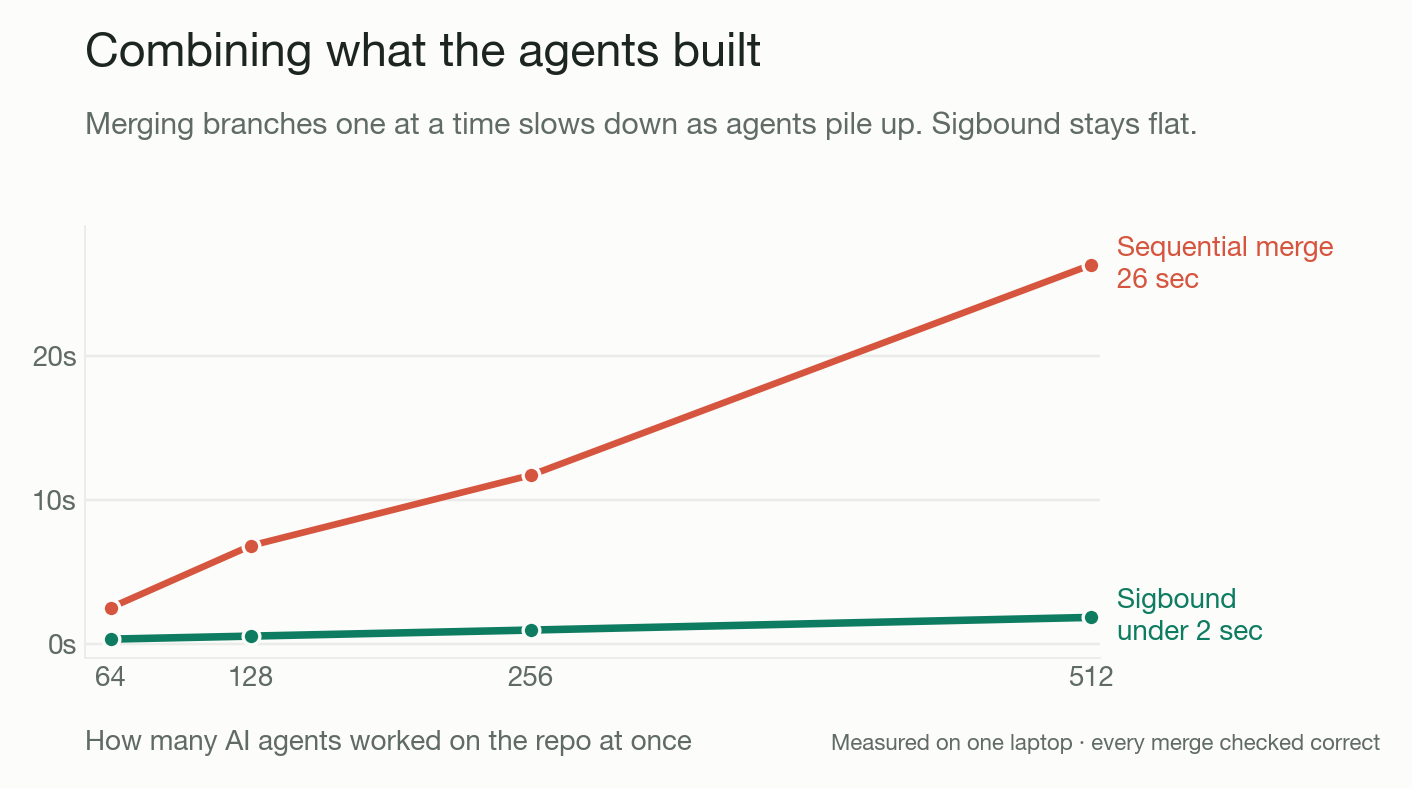
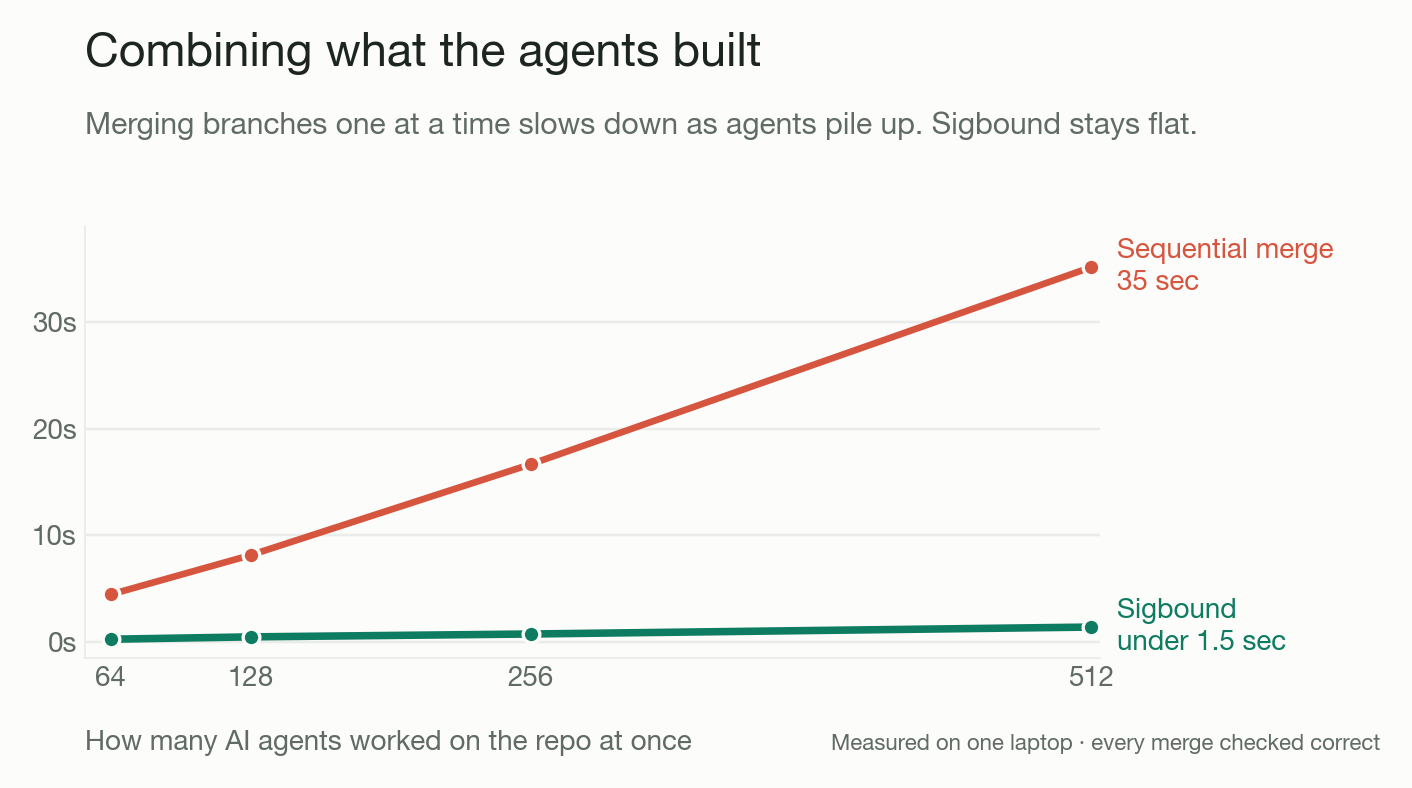
docs: refresh benchmark table and charts with clean v1.0 numbers
Re-measured on v1.0.0 (median of 5 runs, 2 warmups, machine idle),
overlay vs sequential git-merge, 2000-file repo, disjoint agents,
both columns from the same run. Sigbound integrates 512 agents in
1.4s (was 1.8s) — ~22% faster at scale from the v0.2-v1.0 batching and
tree-OID fold work. Charts regenerated to match.

diff --git a/README.md b/README.md
@@ -123,14 +123,14 @@ Each agent works in its own `git worktree`. Non-overlapping branches are merged 
 
 ## Benchmarks
 
-Merging N agents' branches into one repository, on a single laptop. Correctness is verified on every run.
+Merging N agents' branches into one repository, on a single laptop (median of 5 runs, correctness verified on every run).
 
 | Agents | Sigbound | Sequential `git merge` | Speedup |
 |-------:|---------:|-----------------------:|--------:|
-| 64  | 0.3 s | 2.5 s | 8× |
-| 128 | 0.5 s | ~7 s  | 13× |
-| 256 | 0.9 s | ~12 s | 13× |
-| 512 | 1.8 s | 26 s  | 15× |
+| 64  | 0.3 s | 4.5 s  | 17× |
+| 128 | 0.5 s | 8.1 s  | 17× |
+| 256 | 0.8 s | 16.7 s | 22× |
+| 512 | 1.4 s | 35.1 s | 25× |
 
 ![Merge time vs number of agents](docs/bench-mergetax.png)
 
@@ -140,10 +140,11 @@ Sequential merging slows down as agents are added, because each merge changes th
 
 The advantage grows with the number of agents.
 
-Reproduce:
+Reproduce a table row (or the full agents×overlap sweep):
 
 ```bash
-go run ./cmd/sigbench -sweep -runs 5 -warmup 1
+go run ./cmd/sigbench -agents 512 -files 2000 -strategy overlay,porcelain -runs 5 -warmup 2
+go run ./cmd/sigbench -sweep
 ```
 
 ## Comparison